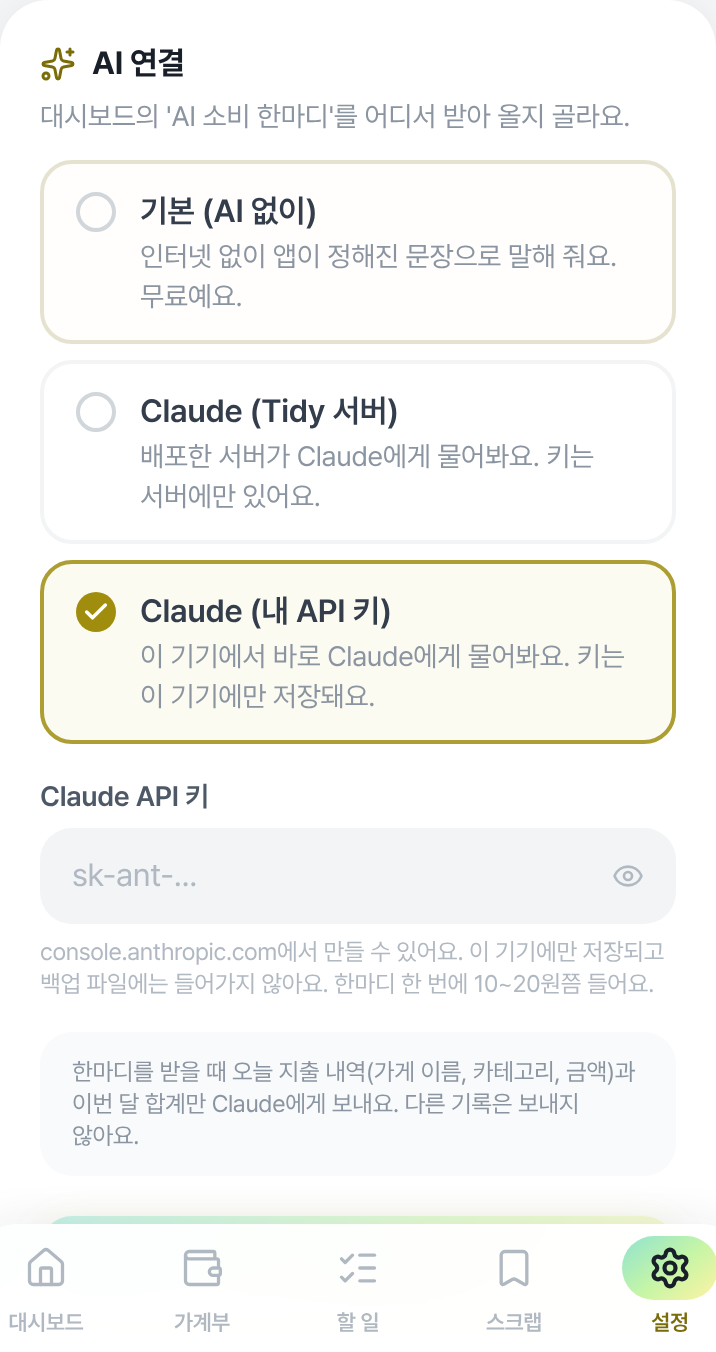
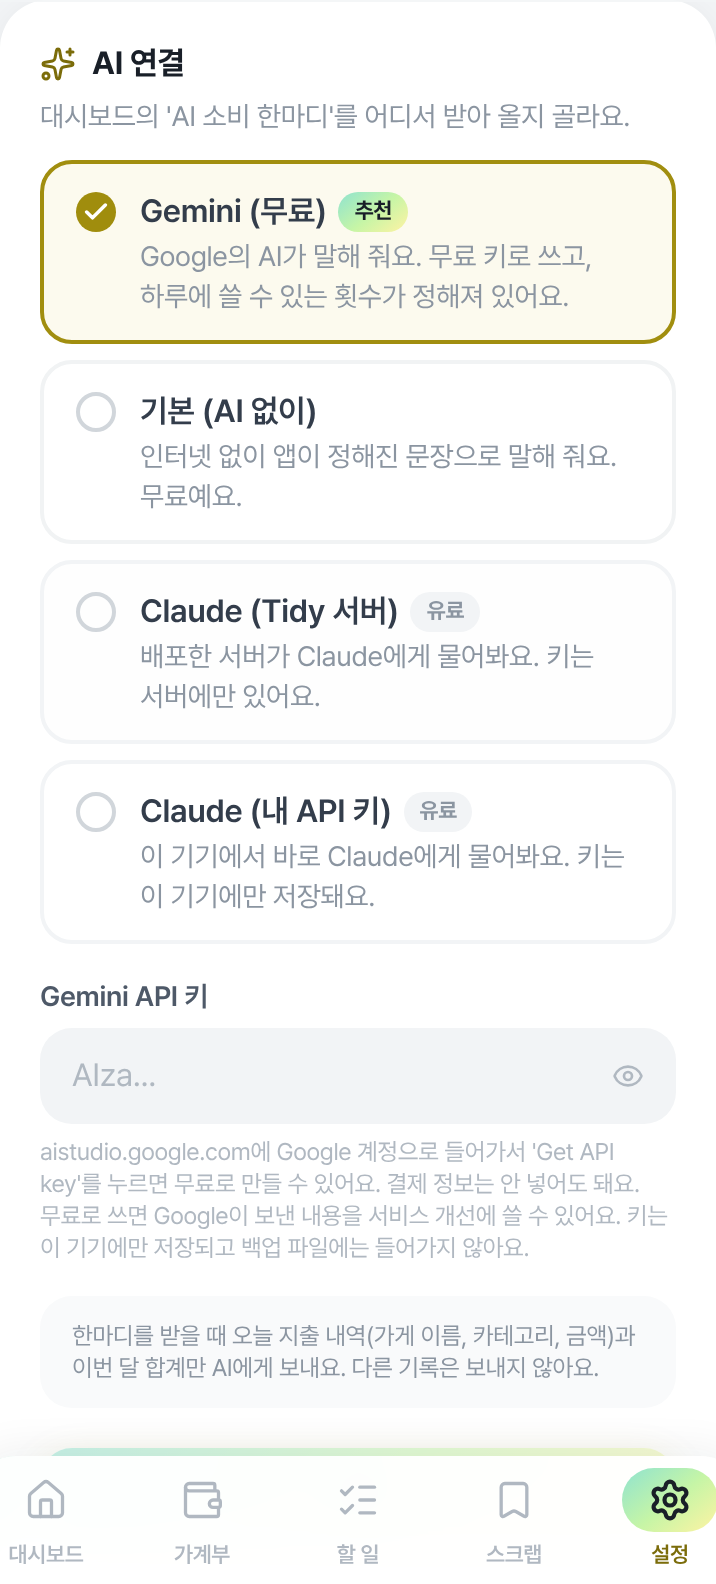
feat: 무료 Gemini 연결 추가하고 추천으로 표시
- 설정 > AI 연결에 'Gemini (무료)' 추가, 맨 위에 '추천' 표시, Claude 쪽은 '유료' 표시
- src/lib/ai/gemini.ts: callGemini (AI 채팅과 같이 쓰는 모양), 모델은 gemini-flash-latest
- 무료 사용량 초과(429), 키 오류를 한국어로 알려 줌
- 대시보드 카드의 버튼을 '무료 AI 연결하기'로

Claude-Session: https://claude.ai/code/session_01Ji86Qu4Lw3Qcq3NacWfVnb

diff --git a/src/components/settings/AiSettingsSection.tsx b/src/components/settings/AiSettingsSection.tsx
@@ -1,31 +1,38 @@
 import { Check, Eye, EyeOff, Sparkles } from 'lucide-react'
 import { useState } from 'react'
-import { DEFAULT_SERVER_URL, ENGINE_LABEL, type EngineId } from '../../lib/ai/engines'
+import { DEFAULT_SERVER_URL, ENGINE_LABEL, RECOMMENDED_ENGINE, type EngineId } from '../../lib/ai/engines'
 import { useAiSettings } from '../../lib/ai/settings'
 import Button from '../common/Button'
 import { inputClass } from '../common/formStyles'
 import { useToast } from '../common/Toast'
 
-const ORDER: EngineId[] = ['local', 'server', 'key']
+const ORDER: EngineId[] = ['gemini', 'local', 'server', 'key']
+
+/** 돈이 드는 연결 */
+const PAID: EngineId[] = ['server', 'key']
 
 /** 설정 > AI 연결: 한마디를 어디서 받아 올지 고른다 */
 export default function AiSettingsSection() {
   const [settings, save] = useAiSettings()
   const [engine, setEngine] = useState<EngineId>(settings.engine)
   const [apiKey, setApiKey] = useState(settings.apiKey ?? '')
+  const [geminiKey, setGeminiKey] = useState(settings.geminiKey ?? '')
   const [serverUrl, setServerUrl] = useState(settings.serverUrl ?? '')
-  const [show, setShow] = useState(false)
   const toast = useToast()
 
-  const keyMissing = engine === 'key' && !apiKey.trim()
+  const keyMissing = (engine === 'key' && !apiKey.trim()) || (engine === 'gemini' && !geminiKey.trim())
   const changed =
-    engine !== settings.engine || apiKey.trim() !== (settings.apiKey ?? '') || serverUrl.trim() !== (settings.serverUrl ?? '')
+    engine !== settings.engine ||
+    apiKey.trim() !== (settings.apiKey ?? '') ||
+    geminiKey.trim() !== (settings.geminiKey ?? '') ||
+    serverUrl.trim() !== (settings.serverUrl ?? '')
 
   function submit() {
     if (keyMissing) return
     save({
       engine,
       ...(apiKey.trim() ? { apiKey: apiKey.trim() } : {}),
+      ...(geminiKey.trim() ? { geminiKey: geminiKey.trim() } : {}),
       ...(serverUrl.trim() ? { serverUrl: serverUrl.trim() } : {}),
     })
     toast('AI 연결을 바꿨어요')
@@ -60,7 +67,11 @@ export default function AiSettingsSection() {
                 {on && <Check className="size-3.5" strokeWidth={3} />}
               </span>
               <span className="min-w-0">
-                <span className="block font-semibold text-slate-800">{ENGINE_LABEL[id].title}</span>
+                <span className="flex flex-wrap items-center gap-1.5 font-semibold text-slate-800">
+                  {ENGINE_LABEL[id].title}
+                  {id === RECOMMENDED_ENGINE && <span className="bg-grad on-grad rounded-full px-2 py-0.5 text-[11px] font-bold">추천</span>}
+                  {PAID.includes(id) && <span className="rounded-full bg-slate-100 px-2 py-0.5 text-[11px] font-bold text-slate-500">유료</span>}
+                </span>
                 <span className="block text-sm break-keep text-slate-500">{ENGINE_LABEL[id].desc}</span>
               </span>
             </button>
@@ -68,35 +79,26 @@ export default function AiSettingsSection() {
         })}
       </div>
 
+      {engine === 'gemini' && (
+        <KeyInput
+          id="ai-gemini-key"
+          label="Gemini API 키"
+          value={geminiKey}
+          onChange={setGeminiKey}
+          placeholder="AIza..."
+          hint="aistudio.google.com에 Google 계정으로 들어가서 'Get API key'를 누르면 무료로 만들 수 있어요. 결제 정보는 안 넣어도 돼요. 무료로 쓰면 Google이 보낸 내용을 서비스 개선에 쓸 수 있어요."
+        />
+      )}
+
       {engine === 'key' && (
-        <div className="px-5 pt-4">
-          <label htmlFor="ai-key" className="mb-1.5 block text-sm font-semibold text-slate-700">
-            Claude API 키
-          </label>
-          <div className="relative">
-            <input
-              id="ai-key"
-              type={show ? 'text' : 'password'}
-              value={apiKey}
-              onChange={(e) => setApiKey(e.target.value)}
-              placeholder="sk-ant-..."
-              autoComplete="off"
-              spellCheck={false}
-              className={`${inputClass()} pr-12`}
-            />
-            <button
-              type="button"
-              onClick={() => setShow((v) => !v)}
-              className="tap absolute top-1/2 right-2 -translate-y-1/2 rounded-full p-2 text-slate-400"
-              aria-label={show ? '키 숨기기' : '키 보기'}
-            >
-              {show ? <EyeOff className="size-4" aria-hidden /> : <Eye className="size-4" aria-hidden />}
-            </button>
-          </div>
-          <p className="mt-1.5 text-xs break-keep text-slate-400">
-            console.anthropic.com에서 만들 수 있어요. 이 기기에만 저장되고 백업 파일에는 들어가지 않아요. 한마디 한 번에 10~20원쯤 들어요.
-          </p>
-        </div>
+        <KeyInput
+          id="ai-key"
+          label="Claude API 키"
+          value={apiKey}
+          onChange={setApiKey}
+          placeholder="sk-ant-..."
+          hint="console.anthropic.com에서 만들 수 있어요. 한마디 한 번에 10~20원쯤 들어요."
+        />
       )}
 
       {engine === 'server' && (
@@ -119,7 +121,7 @@ export default function AiSettingsSection() {
 
       {engine !== 'local' && (
         <p className="mx-5 mt-4 rounded-2xl bg-slate-50 px-4 py-3 text-xs break-keep text-slate-500">
-          한마디를 받을 때 오늘 지출 내역(가게 이름, 카테고리, 금액)과 이번 달 합계만 Claude에게 보내요. 다른 기록은 보내지 않아요.
+          한마디를 받을 때 오늘 지출 내역(가게 이름, 카테고리, 금액)과 이번 달 합계만 AI에게 보내요. 다른 기록은 보내지 않아요.
         </p>
       )}
 
@@ -129,5 +131,37 @@ export default function AiSettingsSection() {
         </Button>
       </div>
     </section>
+  )
+}
+
+function KeyInput(props: { id: string; label: string; value: string; onChange: (v: string) => void; placeholder: string; hint: string }) {
+  const [show, setShow] = useState(false)
+  return (
+    <div className="px-5 pt-4">
+      <label htmlFor={props.id} className="mb-1.5 block text-sm font-semibold text-slate-700">
+        {props.label}
+      </label>
+      <div className="relative">
+        <input
+          id={props.id}
+          type={show ? 'text' : 'password'}
+          value={props.value}
+          onChange={(e) => props.onChange(e.target.value)}
+          placeholder={props.placeholder}
+          autoComplete="off"
+          spellCheck={false}
+          className={`${inputClass()} pr-12`}
+        />
+        <button
+          type="button"
+          onClick={() => setShow((v) => !v)}
+          className="tap absolute top-1/2 right-2 -translate-y-1/2 rounded-full p-2 text-slate-400"
+          aria-label={show ? '키 숨기기' : '키 보기'}
+        >
+          {show ? <EyeOff className="size-4" aria-hidden /> : <Eye className="size-4" aria-hidden />}
+        </button>
+      </div>
+      <p className="mt-1.5 text-xs break-keep text-slate-400">{props.hint} 키는 이 기기에만 저장되고 백업 파일에는 들어가지 않아요.</p>
+    </div>
   )
 }

diff --git a/src/lib/ai/engines.ts b/src/lib/ai/engines.ts
@@ -1,5 +1,6 @@
+import { callGemini } from './gemini'
 import { localFeedback } from './localEngine'
-import { askClaude, FeedbackError, type FeedbackMode, type SpendingSnapshot } from './prompts'
+import { askClaude, FeedbackError, systemPrompt, userPrompt, type FeedbackMode, type SpendingSnapshot } from './prompts'
 
 /**
  * AI 연결 방법. 화면은 이 모양만 알고, 실제로 어디에 묻는지는 몰라도 된다.
@@ -10,10 +11,12 @@ export interface FeedbackEngine {
   generate(mode: FeedbackMode, snapshot: SpendingSnapshot, signal?: AbortSignal): Promise<string>
 }
 
-export type EngineId = 'local' | 'server' | 'key'
+export type EngineId = 'local' | 'gemini' | 'server' | 'key'
 
 export interface AiSettings {
   engine: EngineId
+  /** engine = 'gemini' 일 때: 사용자 본인의 Gemini API 키 (무료, 이 기기에만 저장) */
+  geminiKey?: string
   /** engine = 'key' 일 때: 사용자 본인의 Claude API 키 (이 기기에만 저장) */
   apiKey?: string
   /** engine = 'server' 일 때: 한마디를 받아 올 주소 */
@@ -22,8 +25,12 @@ export interface AiSettings {
 
 export const DEFAULT_SERVER_URL = '/api/feedback'
 
+/** 설정에서 '추천'으로 보여 줄 연결 */
+export const RECOMMENDED_ENGINE: EngineId = 'gemini'
+
 export const ENGINE_LABEL: Record<EngineId, { title: string; desc: string }> = {
   local: { title: '기본 (AI 없이)', desc: '인터넷 없이 앱이 정해진 문장으로 말해 줘요. 무료예요.' },
+  gemini: { title: 'Gemini (무료)', desc: 'Google의 AI가 말해 줘요. 무료 키로 쓰고, 하루에 쓸 수 있는 횟수가 정해져 있어요.' },
   server: { title: 'Claude (Tidy 서버)', desc: '배포한 서버가 Claude에게 물어봐요. 키는 서버에만 있어요.' },
   key: { title: 'Claude (내 API 키)', desc: '이 기기에서 바로 Claude에게 물어봐요. 키는 이 기기에만 저장돼요.' },
 }
@@ -52,6 +59,22 @@ export function serverEngine(url = DEFAULT_SERVER_URL): FeedbackEngine {
   }
 }
 
+/** 사용자의 무료 Gemini 키로 이 기기에서 바로 묻는다 */
+export function geminiEngine(apiKey: string): FeedbackEngine {
+  return {
+    id: 'gemini',
+    async generate(mode, snapshot, signal) {
+      try {
+        return await callGemini(apiKey, { system: systemPrompt(mode), parts: [{ text: userPrompt(snapshot) }], signal })
+      } catch (err) {
+        // 인터넷이 끊긴 경우(TypeError)는 화면의 기본 안내로, 나머지는 Gemini가 준 이유 그대로
+        if (err instanceof Error && !(err instanceof TypeError) && err.name !== 'AbortError') throw new FeedbackError(err.message)
+        throw err
+      }
+    },
+  }
+}
+
 /** 사용자 키로 이 기기에서 바로 묻는다. SDK는 처음 쓸 때만 불러온다 */
 export function keyEngine(apiKey: string): FeedbackEngine {
   return {
@@ -66,6 +89,7 @@ export function keyEngine(apiKey: string): FeedbackEngine {
 }
 
 export function engineFor(settings: AiSettings): FeedbackEngine {
+  if (settings.engine === 'gemini' && settings.geminiKey?.trim()) return geminiEngine(settings.geminiKey.trim())
   if (settings.engine === 'server') return serverEngine(settings.serverUrl?.trim() || DEFAULT_SERVER_URL)
   if (settings.engine === 'key' && settings.apiKey?.trim()) return keyEngine(settings.apiKey.trim())
   return localEngine

diff --git a/src/lib/ai/gemini.ts b/src/lib/ai/gemini.ts
@@ -1,0 +1,52 @@
+// Google Gemini API (무료 사용량 있음): 앱 여러 곳(소비 한마디, AI 채팅)이 같이 쓰는 호출 함수
+// 키는 Google AI Studio(aistudio.google.com)에서 무료로 만든다. 무료는 하루·분당 횟수 제한이 있다.
+
+/** 무료로 쓸 수 있는 최신 Flash 모델을 가리키는 이름 (Google이 새 모델로 알아서 바꿔 준다) */
+export const GEMINI_MODEL = 'gemini-flash-latest'
+
+const ENDPOINT = 'https://generativelanguage.googleapis.com/v1beta/models'
+
+export type GeminiPart = { text: string } | { inlineData: { mimeType: string; data: string } }
+
+export interface GeminiRequest {
+  system: string
+  parts: GeminiPart[]
+  /** 주면 JSON으로만 답한다 (responseSchema) */
+  schema?: object
+  signal?: AbortSignal
+}
+
+interface GeminiResponse {
+  candidates?: { content?: { parts?: { text?: string; thought?: boolean }[] }; finishReason?: string }[]
+  promptFeedback?: { blockReason?: string }
+  error?: { message?: string }
+}
+
+export async function callGemini(apiKey: string, req: GeminiRequest): Promise<string> {
+  const res = await fetch(`${ENDPOINT}/${GEMINI_MODEL}:generateContent`, {
+    method: 'POST',
+    headers: { 'content-type': 'application/json', 'x-goog-api-key': apiKey },
+    body: JSON.stringify({
+      systemInstruction: { parts: [{ text: req.system }] },
+      contents: [{ role: 'user', parts: req.parts }],
+      ...(req.schema ? { generationConfig: { responseMimeType: 'application/json', responseSchema: req.schema } } : {}),
+    }),
+    signal: req.signal,
+  })
+  const data = (await res.json().catch(() => ({}))) as GeminiResponse
+
+  if (res.status === 429) throw new Error('오늘 무료 사용량을 다 썼어요. 잠시 뒤에 다시 해 주세요')
+  if (res.status === 400 || res.status === 401 || res.status === 403) {
+    throw new Error(/api key/i.test(data.error?.message ?? '') ? 'Gemini API 키가 맞지 않아요' : 'Gemini가 요청을 받지 않았어요')
+  }
+  if (!res.ok) throw new Error('Gemini 서버에서 오류가 났어요')
+  if (data.promptFeedback?.blockReason) throw new Error('Gemini가 이번엔 답하지 않았어요')
+
+  const text = (data.candidates?.[0]?.content?.parts ?? [])
+    .filter((p) => !p.thought)
+    .map((p) => p.text ?? '')
+    .join('')
+    .trim()
+  if (!text) throw new Error('Gemini가 빈 답을 줬어요')
+  return text
+}

diff --git a/tests/unit/aiFeedback.test.ts b/tests/unit/aiFeedback.test.ts
@@ -135,3 +135,36 @@ describe('askClaude', () => {
     await expect(askClaude(client, 'feedback', s)).rejects.toThrow('답하지 않았어요')
   })
 })
+
+describe('Gemini', () => {
+  const s = buildSnapshot(month, today)
+  const mockFetch = (status: number, body: object) => {
+    const f = vi.fn().mockResolvedValue(new Response(JSON.stringify(body), { status }))
+    vi.stubGlobal('fetch', f)
+    return f
+  }
+
+  it('키가 있으면 Gemini로 묻고, 키를 헤더에 넣는다', async () => {
+    const f = mockFetch(200, { candidates: [{ content: { parts: [{ text: '생각', thought: true }, { text: '오늘 잘 썼어! ' }] } }] })
+    const engine = engineFor({ engine: 'gemini', geminiKey: 'AIza-test' })
+    expect(engine.id).toBe('gemini')
+    await expect(engine.generate('saver', s)).resolves.toBe('오늘 잘 썼어!')
+    const [url, init] = f.mock.calls[0]
+    expect(url).toContain('gemini-flash-latest:generateContent')
+    expect(init.headers['x-goog-api-key']).toBe('AIza-test')
+    const body = JSON.parse(init.body)
+    expect(body.systemInstruction.parts[0].text).toContain('절약 잔소리')
+    expect(body.contents[0].parts[0].text).toContain('올리브영')
+    vi.unstubAllGlobals()
+  })
+
+  it('무료 사용량을 다 쓰면 알려 준다', async () => {
+    mockFetch(429, { error: { message: 'quota' } })
+    await expect(engineFor({ engine: 'gemini', geminiKey: 'k' }).generate('cheer', s)).rejects.toThrow('무료 사용량')
+    vi.unstubAllGlobals()
+  })
+
+  it('키가 없으면 기본으로', () => {
+    expect(engineFor({ engine: 'gemini' })).toBe(localEngine)
+  })
+})

diff --git a/src/lib/ai/settings.ts b/src/lib/ai/settings.ts
@@ -39,7 +39,7 @@ function subscribe(cb: () => void) {
 function parseSettings(raw: string | null): AiSettings {
   try {
     const v = JSON.parse(raw ?? 'null') as Partial<AiSettings> | null
-    if (v && (v.engine === 'local' || v.engine === 'server' || v.engine === 'key')) return { ...v, engine: v.engine }
+    if (v && (v.engine === 'local' || v.engine === 'gemini' || v.engine === 'server' || v.engine === 'key')) return { ...v, engine: v.engine }
   } catch {
     // 깨진 값이면 기본으로
   }

diff --git a/src/components/dashboard/AiFeedbackCard.tsx b/src/components/dashboard/AiFeedbackCard.tsx
@@ -122,7 +122,7 @@ export default function AiFeedbackCard({ items, today }: Props) {
           {isLocal ? (
             <Link to="/settings" className="tap flex items-center gap-1 rounded-full bg-brand-50 px-3 py-1.5 font-bold text-brand-700">
               <Settings2 className="size-3.5" aria-hidden />
-              AI 연결하기
+              무료 AI 연결하기
             </Link>
           ) : (
             <button
